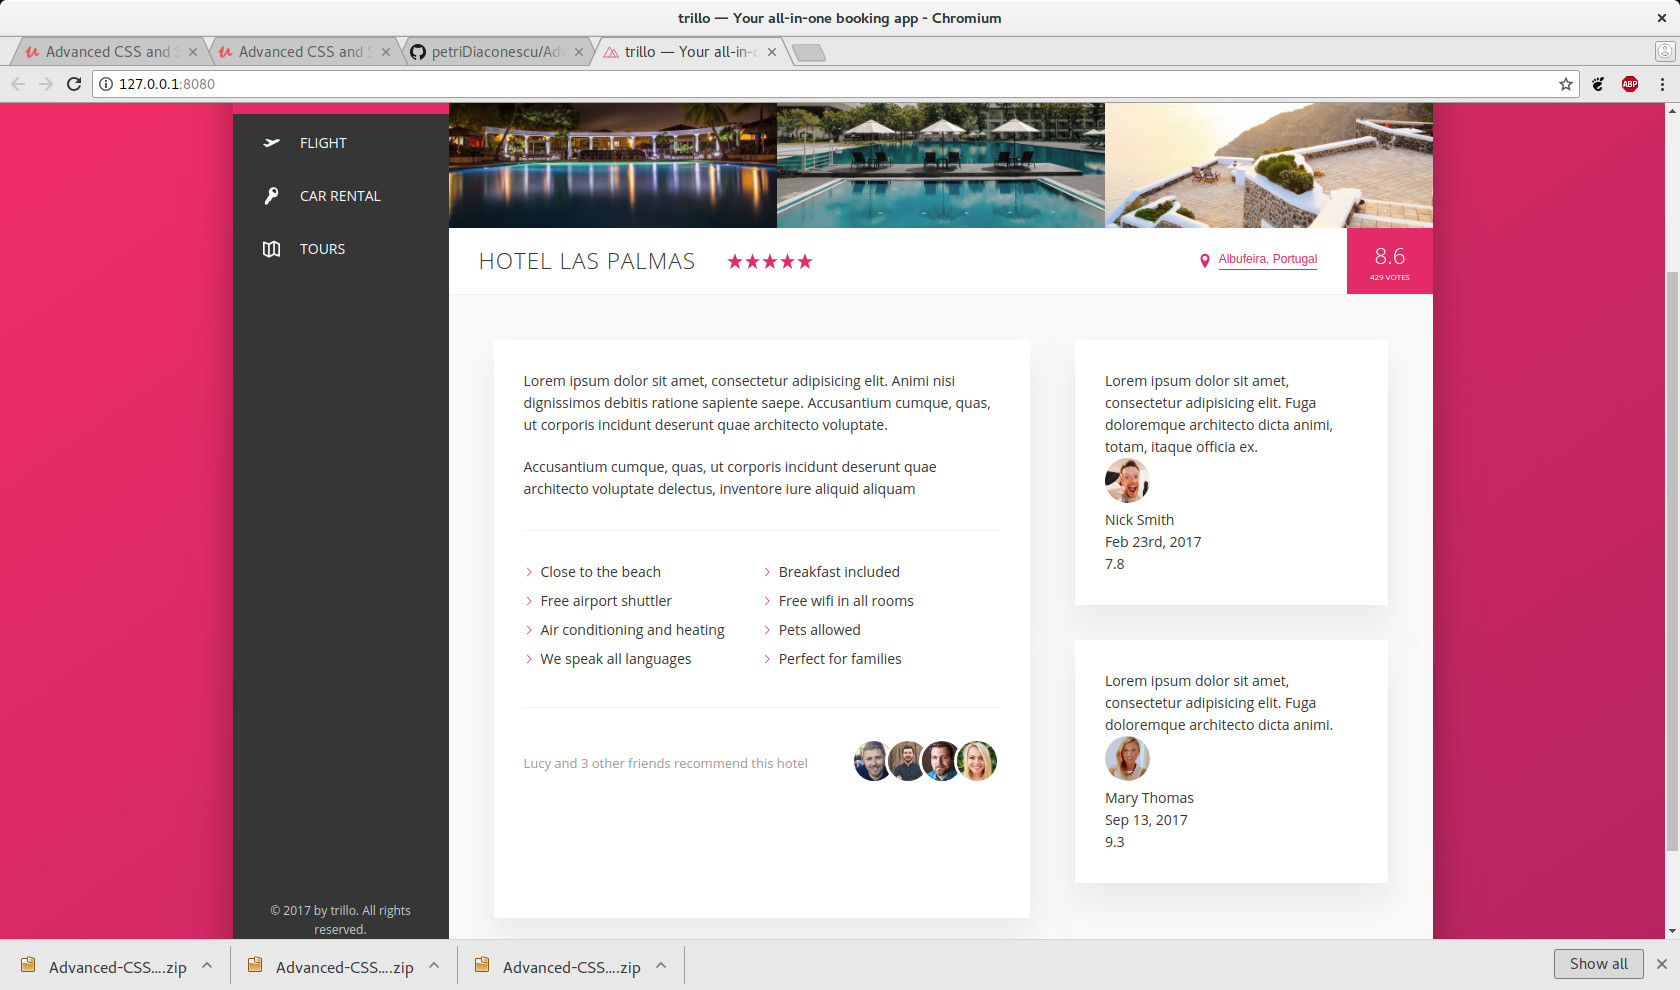
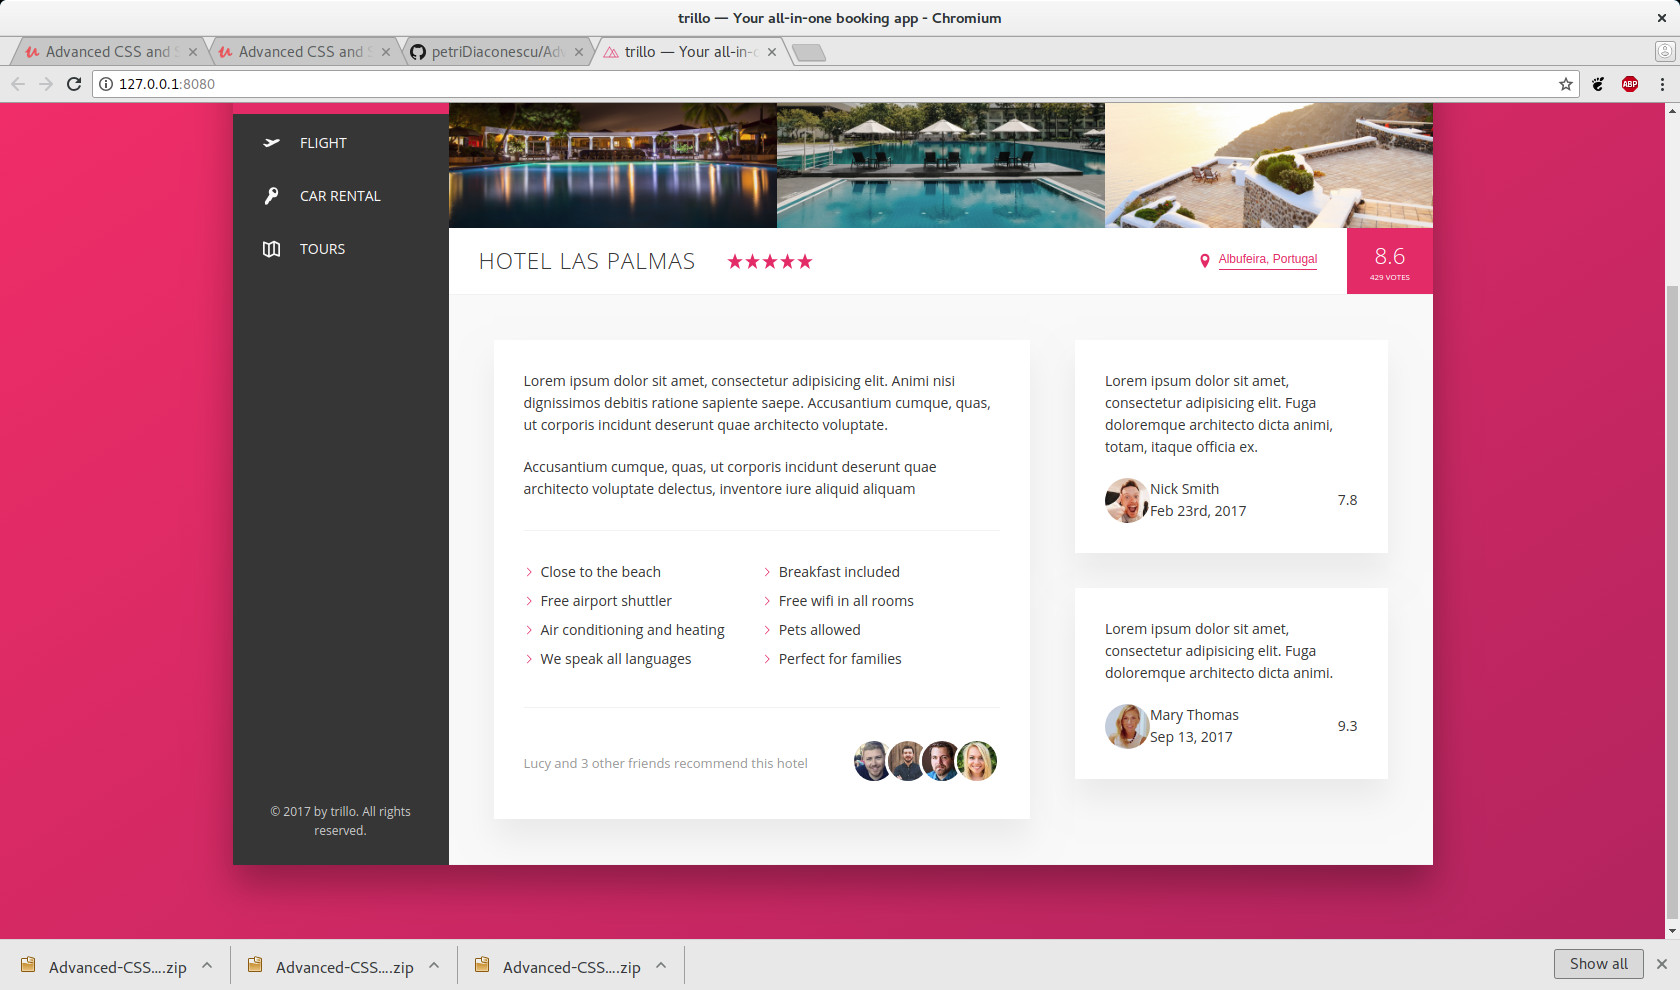
Center the content of the review sections on a single line. Push the third subelement to the right side using margin-right: auto on the second. Add a margin before the image review.

diff --git a/sass/_components.scss b/sass/_components.scss
@@ -390,11 +390,12 @@
   margin-bottom: 3.5rem;
   
   &__text {
-    
+    margin-bottom: 2rem;
   }
   
   &__user {
-    
+    display: flex;
+    align-items: center;
   }
   
   &__photo {
@@ -404,7 +405,7 @@
   }
   
   &__user-box {
-    
+    margin-right: auto;
   }
   
   &__user-name {
